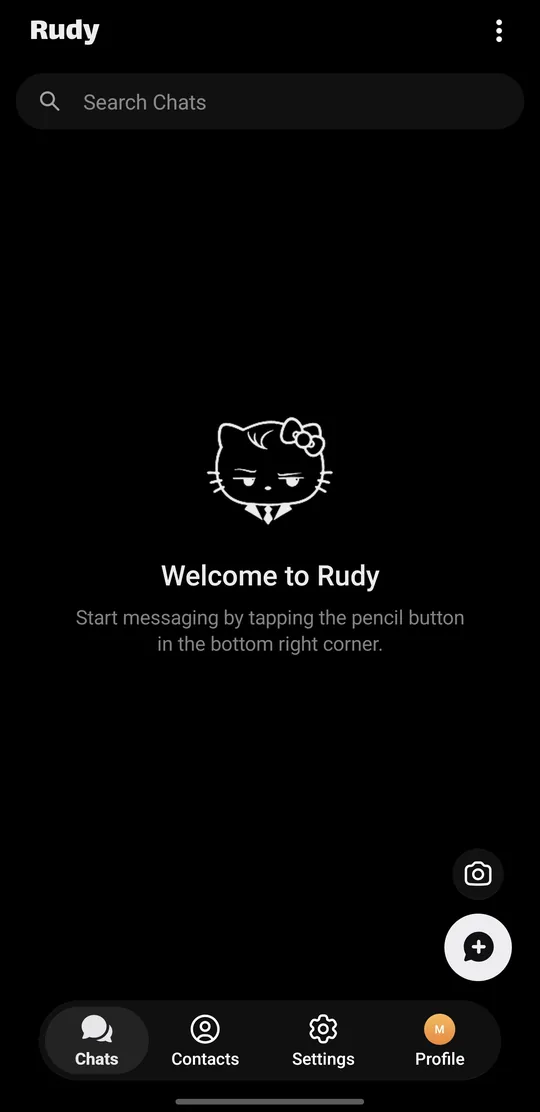
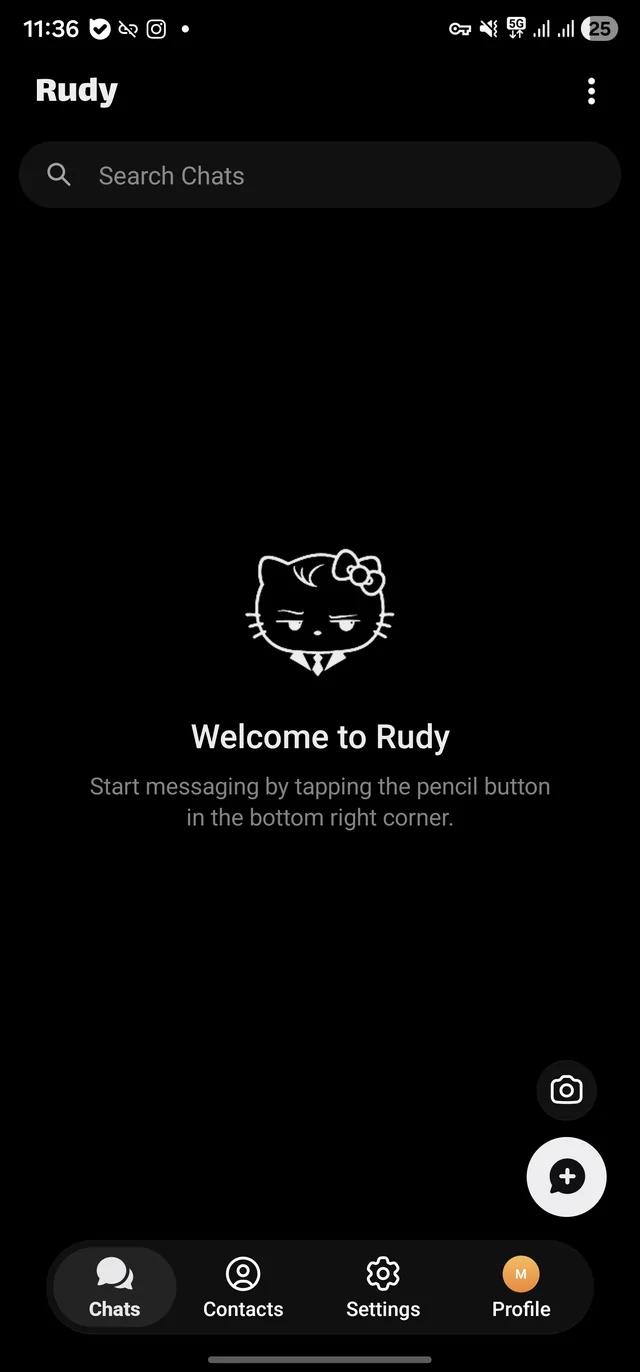
Show the app screenshots uncropped, without device frames

diff --git a/css/style.css b/css/style.css
@@ -368,37 +368,25 @@ body.shake main { animation: shake .4s linear 2; }
   .about, .audience, .install, .faq, .servers { padding-block: 88px; }
 }
 
-/* familiar: real app screenshots */
+/* familiar: real app screenshots, shown as they are */
 .familiar { padding-block: 40px 120px; }
 .phones { display: grid; grid-template-columns: repeat(4, minmax(0, 1fr)); gap: 28px; align-items: start; }
 .phone { margin: 0; min-width: 0; }
-.phone:nth-child(even) { margin-top: 56px; }
+.phone:nth-child(even) { margin-top: 48px; }
 .device {
-  position: relative; padding: 7px; border-radius: 42px;
-  background: linear-gradient(150deg, #3a3a3e 0%, #121214 22%, #0b0b0c 70%, #2a2a2d 100%);
-  box-shadow:
-    inset 0 0 0 1px rgba(255, 255, 255, .10),
-    inset 0 0 0 3px #050506,
-    0 1px 0 rgba(255, 255, 255, .5),
-    0 44px 70px -38px rgba(17, 17, 19, .55),
-    0 18px 28px -18px rgba(17, 17, 19, .35);
+  overflow: hidden; border-radius: 6% / 2.8%; background: var(--paper-2);
+  box-shadow: 0 0 0 1px var(--hair), 0 40px 70px -40px rgba(17, 17, 19, .45), 0 14px 24px -16px rgba(17, 17, 19, .25);
 }
-.device::before {
-  content: ""; position: absolute; inset-inline-start: -2px; top: 21%; width: 3px; height: 11%;
-  border-radius: 2px; background: linear-gradient(90deg, #2c2c30, #0e0e10);
-}
-.device img { display: block; width: 100%; height: auto; border-radius: 35px; }
-.phone figcaption { margin-top: 14px; text-align: center; font-size: 14px; color: var(--muted); }
+.device img { display: block; width: 100%; height: auto; }
+.phone figcaption { margin-top: 16px; text-align: center; font-size: 14px; color: var(--muted); }
 @media (max-width: 900px) {
   .familiar { padding-block: 24px 88px; }
-  .phones { grid-template-columns: repeat(2, minmax(0, 1fr)); gap: 20px; max-width: 520px; margin-inline: auto; }
+  .phones { grid-template-columns: repeat(2, minmax(0, 1fr)); gap: 24px; max-width: 600px; margin-inline: auto; }
   .phone:nth-child(even) { margin-top: 40px; }
 }
 @media (max-width: 600px) {
   .familiar { padding-block: 8px 68px; }
   .phones { gap: 14px; }
   .phone:nth-child(even) { margin-top: 28px; }
-  .device { padding: 5px; border-radius: 28px; }
-  .device img { border-radius: 23px; }
-    .phone figcaption { font-size: 13px; margin-top: 10px; }
+  .phone figcaption { font-size: 13px; margin-top: 10px; }
 }

diff --git a/index.html b/index.html
@@ -113,10 +113,10 @@
         <p class="section-sub">اگه قبلاً با تلگرام کار کردی، تو رودی هم غریبی نمیکنی. همون چیدمان آشنا، فقط خلوتتر.</p>
       </header>
       <div class="phones">
-        <figure class="phone"><div class="device"><img src="img/app/chats-light.webp" width="540" height="1112" loading="lazy" alt="صفحه چتهای رودی"></div><figcaption>صفحه چتها</figcaption></figure>
-        <figure class="phone"><div class="device"><img src="img/app/chat-light.webp" width="540" height="1112" loading="lazy" alt="یه گفتوگو در رودی"></div><figcaption>داخل گفتوگو</figcaption></figure>
-        <figure class="phone"><div class="device"><img src="img/app/chats-dark.webp" width="540" height="1112" loading="lazy" alt="صفحه چتهای رودی با پسزمینه تیره"></div><figcaption>صفحه چتها</figcaption></figure>
-        <figure class="phone"><div class="device"><img src="img/app/chat-dark.webp" width="540" height="1112" loading="lazy" alt="یه گفتوگو در رودی با پسزمینه تیره"></div><figcaption>داخل گفتوگو</figcaption></figure>
+        <figure class="phone"><div class="device"><img src="img/app/chats-light.webp" width="640" height="1372" loading="lazy" alt="صفحه چتهای رودی"></div><figcaption>صفحه چتها</figcaption></figure>
+        <figure class="phone"><div class="device"><img src="img/app/chat-light.webp" width="640" height="1372" loading="lazy" alt="یه گفتوگو در رودی"></div><figcaption>داخل گفتوگو</figcaption></figure>
+        <figure class="phone"><div class="device"><img src="img/app/chats-dark.webp" width="640" height="1372" loading="lazy" alt="صفحه چتهای رودی با پسزمینه تیره"></div><figcaption>صفحه چتها</figcaption></figure>
+        <figure class="phone"><div class="device"><img src="img/app/chat-dark.webp" width="640" height="1372" loading="lazy" alt="یه گفتوگو در رودی با پسزمینه تیره"></div><figcaption>داخل گفتوگو</figcaption></figure>
       </div>
     </section>
 
